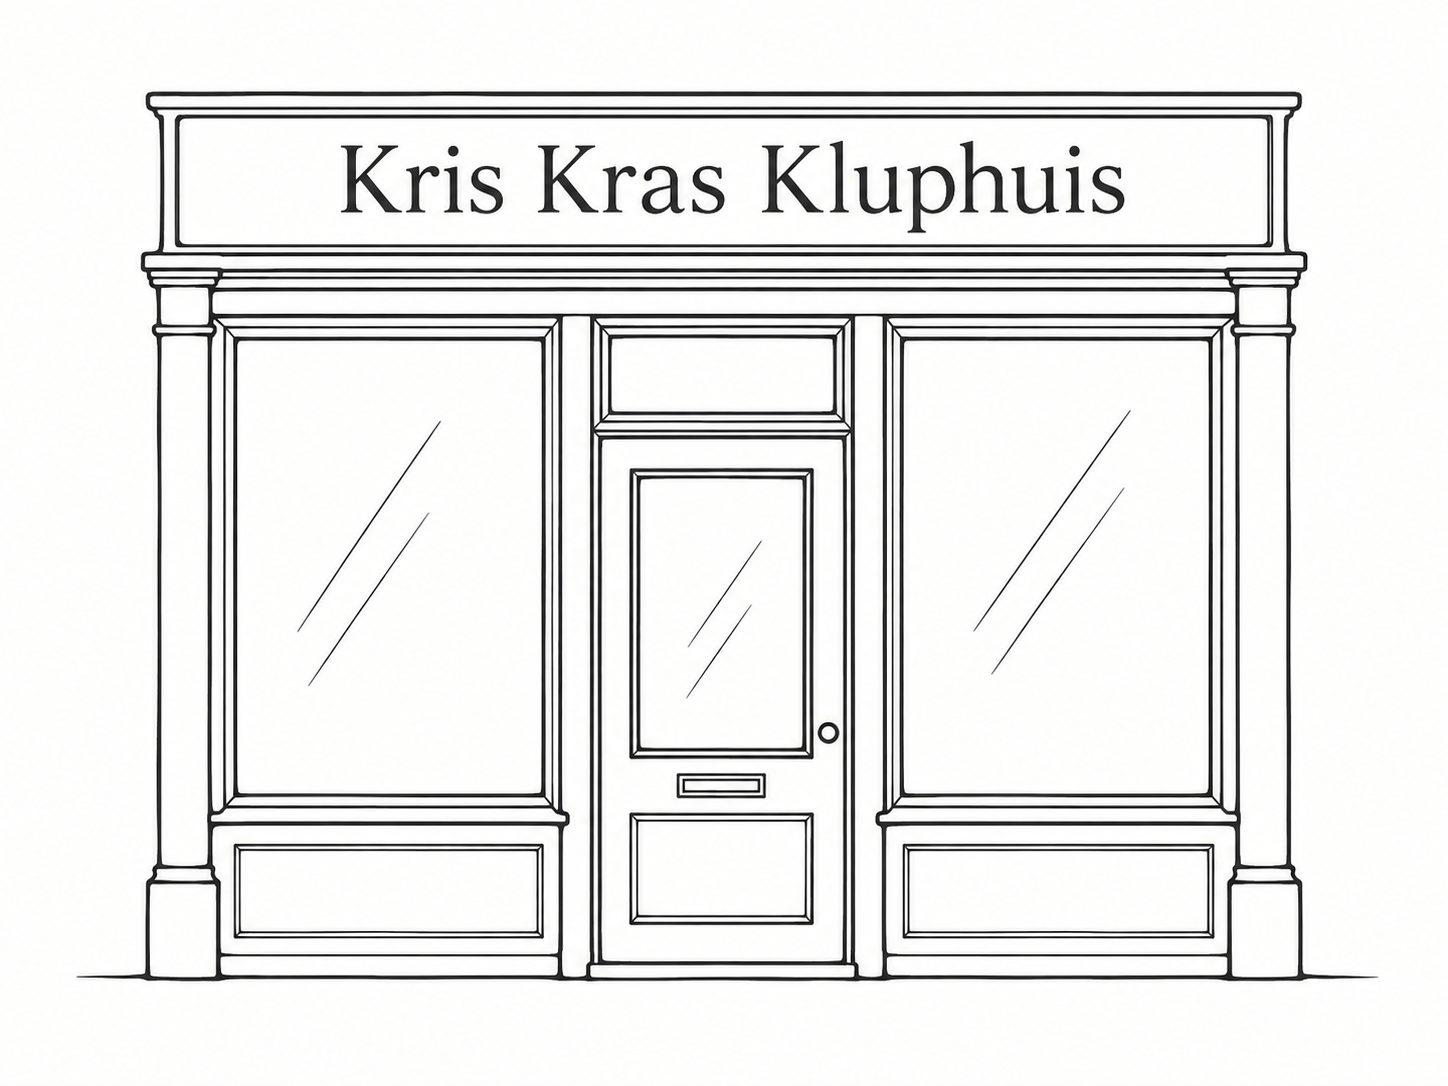
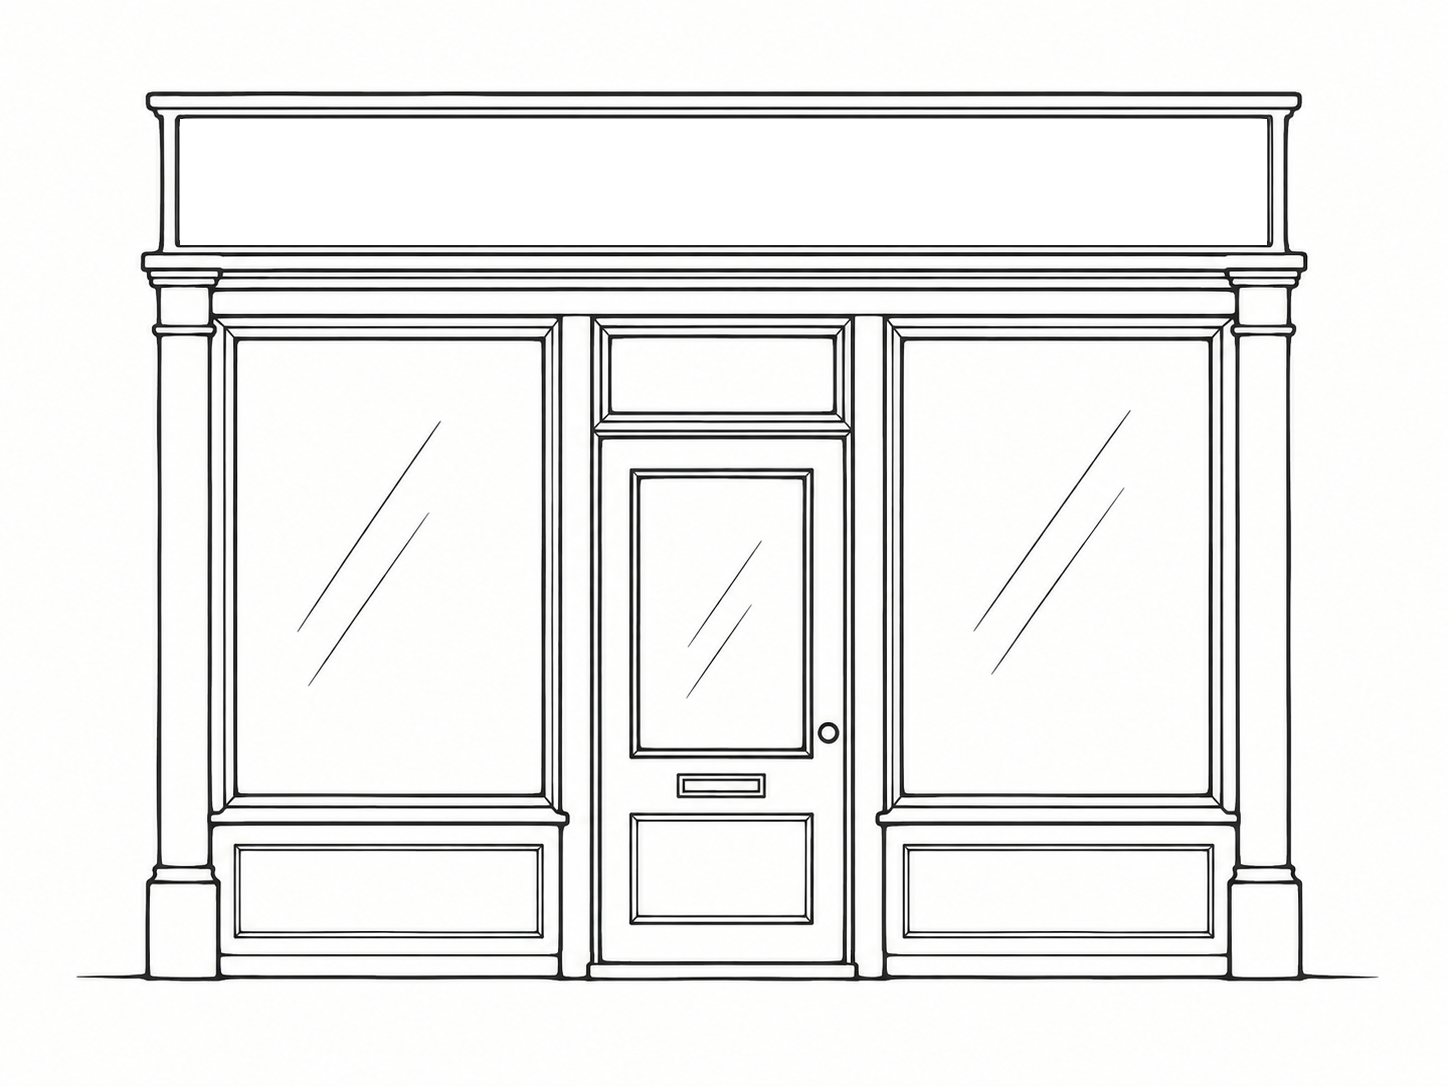
Lettertype-systeem (Fraunces/Public Sans/IBM Plex Mono), mobiele scroll terug, diverse fixes
- Nieuw lettertype-systeem overal: Fraunces (serif) voor koppen/titels,
  Public Sans voor lopende tekst/knoppen, IBM Plex Mono voor kleine
  labeltjes zoals "lees dit verhaal".
- De getekende bordjes ("Kris Kras Kluphuis", "Het Kluphuis") zijn
  afgedekt en vervangen door echte HTML-titels in Fraunces, voor een
  exacte match i.p.v. een door de tekentool benaderd lettertype.
- Achterkamertje op mobiel: in plaats van alles piepklein te tonen,
  blijft de kamer op leesbaar formaat staan en scroll je in de breedte
  (zoals eerder).
- Spreekbelletje (boekenkast/klok/kat) groter en beter leesbaar.
- Geen geel hover-ovaal meer op de klikbare vlakken; alleen nog een
  onopvallende focusring voor toetsenbordgebruikers.

Claude-Session: https://claude.ai/code/session_01JwU6z3T25hmcmN2N2h8ZPu

Changed region(s): [[0.5283, 0.1215, 0.7769, 0.2127], [0.2175, 0.1215, 0.3419, 0.2127], [0.3729, 0.1215, 0.4972, 0.2127]]

diff --git a/public/css/style.css b/public/css/style.css
@@ -32,7 +32,7 @@ body {
 }
 
 body {
-  font-family: 'Nunito', sans-serif;
+  font-family: 'Public Sans', sans-serif;
   color: var(--ink);
   background:
     radial-gradient(ellipse at top, #fffaf0 0%, var(--parchment) 55%, var(--parchment-dark) 100%);
@@ -47,8 +47,8 @@ h1,
 h2,
 h3,
 h4 {
-  font-family: 'Nunito', sans-serif;
-  font-weight: 800;
+  font-family: 'Fraunces', serif;
+  font-weight: 700;
 }
 
 .site-header {
@@ -129,6 +129,35 @@ main {
   container-type: inline-size;
 }
 
+/* De tekening zelf heeft geen tekst meer op het bordje (dat is expres
+   afgedekt), zodat de titel hier als echte tekst in Fraunces staat. */
+.shop-sign-text {
+  position: absolute;
+  left: 12.43%;
+  top: 10.96%;
+  width: 75%;
+  height: 11.51%;
+  display: flex;
+  flex-direction: column;
+  align-items: center;
+  justify-content: center;
+  text-align: center;
+  pointer-events: none;
+}
+
+.shop-sign-text h1 {
+  margin: 0;
+  font-family: 'Fraunces', serif;
+  font-weight: 700;
+  font-size: clamp(1rem, 5cqw, 2.4rem);
+  line-height: 1;
+  color: var(--ink-brown);
+}
+
+.shop-sign-text .shop-sign-subtitle {
+  display: none;
+}
+
 .door-hit,
 .mailbox-hit {
   position: absolute;
@@ -154,11 +183,9 @@ main {
   height: 7.37%;
 }
 
-.door-hit:hover,
 .door-hit:focus-visible,
-.mailbox-hit:hover,
 .mailbox-hit:focus-visible {
-  outline: 2px solid var(--ochre);
+  outline: 2px solid var(--ink-brown);
   outline-offset: 2px;
 }
 
@@ -200,7 +227,7 @@ main {
   border: 1.5px solid var(--ink-brown);
   border-radius: 6px;
   background: rgba(255, 255, 255, 0.55);
-  font-family: 'Lora', serif;
+  font-family: 'Fraunces', serif;
   color: var(--ink-brown);
 }
 
@@ -208,9 +235,8 @@ main {
   cursor: pointer;
 }
 
-.story-slot.filled:hover,
 .story-slot.filled:focus-visible {
-  outline: 2px solid var(--ochre);
+  outline: 2px solid var(--ink-brown);
   outline-offset: -3px;
 }
 
@@ -231,6 +257,7 @@ main {
   -webkit-box-orient: vertical;
   overflow: hidden;
   margin: 0;
+  font-family: 'Public Sans', sans-serif;
   font-style: italic;
   font-size: clamp(0.52rem, 1.9cqw, 0.85rem);
   color: #6b5c46;
@@ -238,7 +265,8 @@ main {
 
 .story-slot .read-hint {
   margin: 0.5em 0 0;
-  font-size: clamp(0.44rem, 1.5cqw, 0.7rem);
+  font-family: 'IBM Plex Mono', monospace;
+  font-size: clamp(0.4rem, 1.3cqw, 0.65rem);
   letter-spacing: 0.05em;
   text-transform: uppercase;
   opacity: 0.65;
@@ -255,6 +283,7 @@ main {
   -webkit-box-orient: vertical;
   overflow: hidden;
   margin: 0;
+  font-family: 'Public Sans', sans-serif;
   font-style: italic;
   font-size: clamp(0.52rem, 2cqw, 0.85rem);
   color: #8a7a63;
@@ -267,6 +296,25 @@ main {
   .etalage-scene {
     aspect-ratio: 941 / 1672;
     background-image: url('../img/etalage-line-mobile.png');
+  }
+
+  .shop-sign-text {
+    left: 9.99%;
+    top: 17.05%;
+    width: 80.02%;
+    height: 9.75%;
+  }
+
+  .shop-sign-text h1 {
+    font-size: clamp(0.9rem, 6.5cqw, 1.7rem);
+  }
+
+  .shop-sign-text .shop-sign-subtitle {
+    display: block;
+    margin: 0.3em 0 0;
+    font-family: 'Public Sans', sans-serif;
+    font-size: clamp(0.5rem, 2.6cqw, 0.85rem);
+    color: var(--ink-brown);
   }
 
   .door-hit {
@@ -343,7 +391,7 @@ main {
 
 .club-lock-box h2 {
   margin-top: 0;
-  font-family: 'Lora', serif;
+  font-family: 'Fraunces', serif;
   color: var(--ink-brown);
 }
 
@@ -393,7 +441,7 @@ main {
 
 .modal-page h2 {
   margin: 0.2rem 2.2rem 0.9rem 0;
-  font-family: 'Lora', serif;
+  font-family: 'Fraunces', serif;
   color: var(--ink-brown);
   font-size: 1.6rem;
 }
@@ -432,7 +480,7 @@ main {
 
 .comments-section h3 {
   margin: 0 0 0.9rem;
-  font-family: 'Lora', serif;
+  font-family: 'Fraunces', serif;
   color: var(--ink-brown);
   font-size: 1.15rem;
 }
@@ -601,7 +649,7 @@ main {
 .admin-room-title {
   margin: 0 0 1.2rem;
   padding-bottom: 0.5rem;
-  font-family: 'Lora', serif;
+  font-family: 'Fraunces', serif;
   font-size: 1.4rem;
   color: var(--ink-brown);
   border-bottom: 2px solid var(--paper-border);
@@ -642,7 +690,7 @@ main {
 
 .panel h1,
 .panel h2 {
-  font-family: 'Lora', serif;
+  font-family: 'Fraunces', serif;
   color: var(--ink-brown);
   margin-top: 0;
 }
@@ -835,6 +883,56 @@ main {
   container-type: inline-size;
 }
 
+/* Het bordje in de tekening is afgedekt, dus de titel staat hier als
+   echte tekst in Fraunces. */
+.room-sign-text {
+  position: absolute;
+  left: 27.88%;
+  top: 10.41%;
+  width: 44.44%;
+  height: 16.02%;
+  display: flex;
+  flex-direction: column;
+  align-items: center;
+  justify-content: center;
+  text-align: center;
+  pointer-events: none;
+}
+
+.room-sign-text h1 {
+  margin: 0;
+  font-family: 'Fraunces', serif;
+  font-weight: 700;
+  font-size: clamp(0.9rem, 4.2cqw, 1.9rem);
+  line-height: 1.1;
+  color: var(--ink-brown);
+}
+
+.room-sign-text p {
+  margin: 0.2em 0 0;
+  font-family: 'Public Sans', sans-serif;
+  font-size: clamp(0.5rem, 2.2cqw, 0.95rem);
+  color: var(--ink-brown);
+}
+
+/* Op een telefoon wordt alles anders piepklein: de kamer blijft op een
+   leesbaar formaat staan en je scrollt in de breedte, zoals vroeger. */
+@media (max-width: 640px) {
+  .room-main {
+    max-width: 100%;
+    overflow-x: auto;
+    -webkit-overflow-scrolling: touch;
+    padding-left: 1rem;
+    padding-right: 1rem;
+  }
+
+  .room-scene {
+    width: 720px;
+    max-width: none;
+    flex-shrink: 0;
+  }
+}
+
 .bookshelf-hit,
 .typewriter-hit,
 .cat-hit,
@@ -848,15 +946,11 @@ main {
   border-radius: 6px;
 }
 
-.bookshelf-hit:hover,
 .bookshelf-hit:focus-visible,
-.typewriter-hit:hover,
 .typewriter-hit:focus-visible,
-.cat-hit:hover,
 .cat-hit:focus-visible,
-.clock-hit:hover,
 .clock-hit:focus-visible {
-  outline: 2px solid var(--ochre);
+  outline: 2px solid var(--ink-brown);
   outline-offset: 2px;
 }
 
@@ -878,15 +972,15 @@ main {
   display: flex;
   align-items: center;
   justify-content: center;
-  gap: 0.3em;
-  padding: 0.5em 0.9em;
+  gap: 0.25em;
+  padding: 0.35em 0.6em;
   border: 1.5px solid var(--ink-brown);
   border-radius: 999px;
   background: #fff;
   color: var(--ink-brown);
-  font-family: 'Nunito', sans-serif;
+  font-family: 'Public Sans', sans-serif;
   font-weight: bold;
-  font-size: clamp(0.6rem, 1.6cqw, 0.8rem);
+  font-size: clamp(0.4rem, 1.6cqw, 0.8rem);
   cursor: pointer;
   box-shadow: 0 4px 10px var(--shadow);
 }
@@ -906,15 +1000,15 @@ main {
 .typewriter-hint {
   position: absolute;
   left: 25%;
-  top: 57.2%;
+  top: 56.2%;
   width: 50%;
   margin: 0;
   text-align: center;
   white-space: nowrap;
-  font-family: 'Nunito', sans-serif;
+  font-family: 'Public Sans', sans-serif;
   font-style: italic;
   color: var(--ink-brown);
-  font-size: clamp(0.5rem, 1.5cqw, 0.78rem);
+  font-size: clamp(0.35rem, 1.5cqw, 0.78rem);
   line-height: 1.2;
   pointer-events: none;
 }
@@ -1044,18 +1138,18 @@ main {
 .room-bubble {
   position: absolute;
   z-index: 20;
-  max-width: 240px;
-  padding: 0.7rem 1rem;
+  max-width: 260px;
+  padding: 0.8rem 1.1rem;
   background: var(--parchment);
   border: 2px solid var(--paper-border);
   border-radius: 10px;
   box-shadow: 0 6px 14px var(--shadow);
   color: var(--ink-brown);
-  font-family: 'Nunito', sans-serif;
+  font-family: 'Public Sans', sans-serif;
   font-style: italic;
   font-weight: 600;
-  font-size: 0.85rem;
-  line-height: 1.4;
+  font-size: 1.05rem;
+  line-height: 1.45;
   text-align: center;
   transform: translateX(-50%);
   pointer-events: none;

diff --git a/public/room.html b/public/room.html
@@ -6,8 +6,7 @@
   <title>Achterkamertje — KrisKrasKluphuis</title>
   <link rel="preconnect" href="https://fonts.googleapis.com" />
   <link rel="preconnect" href="https://fonts.gstatic.com" crossorigin />
-  <link href="https://fonts.googleapis.com/css2?family=Nunito:ital,wght@0,400;0,600;0,700;0,800;1,600;1,700&display=swap" rel="stylesheet" />
-  <link href="https://fonts.googleapis.com/css2?family=Lora:ital,wght@0,400;0,600;0,700;1,400&display=swap" rel="stylesheet" />
+  <link href="https://fonts.googleapis.com/css2?family=Fraunces:wght@400;600;700&family=Public+Sans:ital,wght@0,400;0,600;0,700;1,400&family=IBM+Plex+Mono:wght@400;500;600&display=swap" rel="stylesheet" />
   <link rel="stylesheet" href="css/style.css" />
 </head>
 <body>
@@ -33,6 +32,10 @@
 
   <main class="room-main">
     <section class="room-scene" aria-label="Het achterkamertje">
+      <div class="room-sign-text">
+        <h1>Het Kluphuis</h1>
+        <p>Kris Kras Klup</p>
+      </div>
       <button type="button" class="bookshelf-hit" aria-label="Boekenkast: tik voor een boekentip"></button>
       <button type="button" class="book-tip-submit-btn" aria-label="Deel jouw eigen boekentip"></button>
       <p class="typewriter-hint" aria-hidden="true">Typ je verhaal</p>

diff --git a/public/index.html b/public/index.html
@@ -6,8 +6,7 @@
   <title>KrisKrasKluphuis</title>
   <link rel="preconnect" href="https://fonts.googleapis.com" />
   <link rel="preconnect" href="https://fonts.gstatic.com" crossorigin />
-  <link href="https://fonts.googleapis.com/css2?family=Nunito:ital,wght@0,400;0,600;0,700;0,800;1,600;1,700&display=swap" rel="stylesheet" />
-  <link href="https://fonts.googleapis.com/css2?family=Lora:ital,wght@0,400;0,600;0,700;1,400&display=swap" rel="stylesheet" />
+  <link href="https://fonts.googleapis.com/css2?family=Fraunces:wght@400;600;700&family=Public+Sans:ital,wght@0,400;0,600;0,700;1,400&family=IBM+Plex+Mono:wght@400;500;600&display=swap" rel="stylesheet" />
   <link rel="stylesheet" href="css/style.css" />
 </head>
 <body>
@@ -17,6 +16,10 @@
 
   <main>
     <section id="etalage" class="etalage-scene" aria-label="Etalage met verhalen">
+      <div class="shop-sign-text">
+        <h1>KrisKrasKluphuis</h1>
+        <p class="shop-sign-subtitle">Verhalen in de etalage</p>
+      </div>
       <!-- Deur, brievenbus en verhalen worden hier via JavaScript ingevuld -->
     </section>
   </main>

diff --git a/public/login.html b/public/login.html
@@ -6,8 +6,7 @@
   <title>Beheerder inloggen — KrisKrasKluphuis</title>
   <link rel="preconnect" href="https://fonts.googleapis.com" />
   <link rel="preconnect" href="https://fonts.gstatic.com" crossorigin />
-  <link href="https://fonts.googleapis.com/css2?family=Nunito:ital,wght@0,400;0,600;0,700;0,800;1,600;1,700&display=swap" rel="stylesheet" />
-  <link href="https://fonts.googleapis.com/css2?family=Lora:ital,wght@0,400;0,600;0,700;1,400&display=swap" rel="stylesheet" />
+  <link href="https://fonts.googleapis.com/css2?family=Fraunces:wght@400;600;700&family=Public+Sans:ital,wght@0,400;0,600;0,700;1,400&family=IBM+Plex+Mono:wght@400;500;600&display=swap" rel="stylesheet" />
   <link rel="stylesheet" href="css/style.css" />
 </head>
 <body>

diff --git a/public/admin.html b/public/admin.html
@@ -6,8 +6,7 @@
   <title>Beheer — KrisKrasKluphuis</title>
   <link rel="preconnect" href="https://fonts.googleapis.com" />
   <link rel="preconnect" href="https://fonts.gstatic.com" crossorigin />
-  <link href="https://fonts.googleapis.com/css2?family=Nunito:ital,wght@0,400;0,600;0,700;0,800;1,600;1,700&display=swap" rel="stylesheet" />
-  <link href="https://fonts.googleapis.com/css2?family=Lora:ital,wght@0,400;0,600;0,700;1,400&display=swap" rel="stylesheet" />
+  <link href="https://fonts.googleapis.com/css2?family=Fraunces:wght@400;600;700&family=Public+Sans:ital,wght@0,400;0,600;0,700;1,400&family=IBM+Plex+Mono:wght@400;500;600&display=swap" rel="stylesheet" />
   <link rel="stylesheet" href="css/style.css" />
 </head>
 <body>

diff --git a/public/js/main.js b/public/js/main.js
@@ -62,7 +62,11 @@ async function loadSession() {
 }
 
 function renderEtalage(stories) {
+  // Het bordje met de sitenaam staat vast in de HTML; niet wegvegen bij
+  // het (her)opbouwen van de rest van de etalage.
+  const signText = etalage.querySelector('.shop-sign-text');
   etalage.innerHTML = '';
+  if (signText) etalage.appendChild(signText);
 
   const doorHit = document.createElement('button');
   doorHit.type = 'button';
